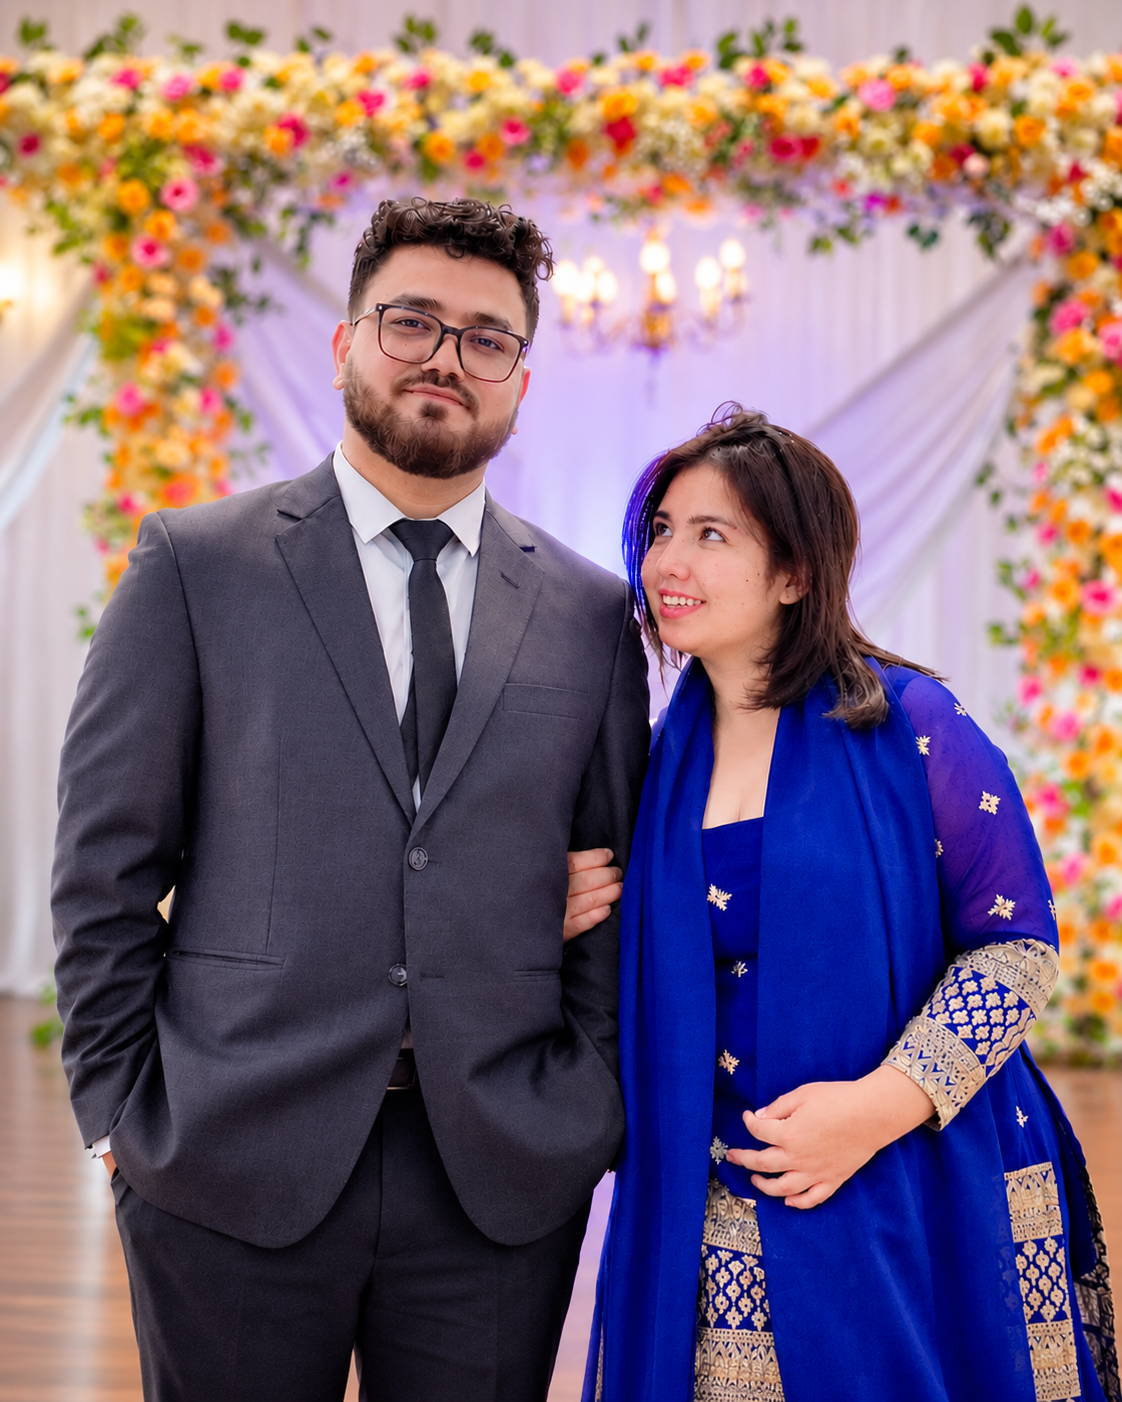
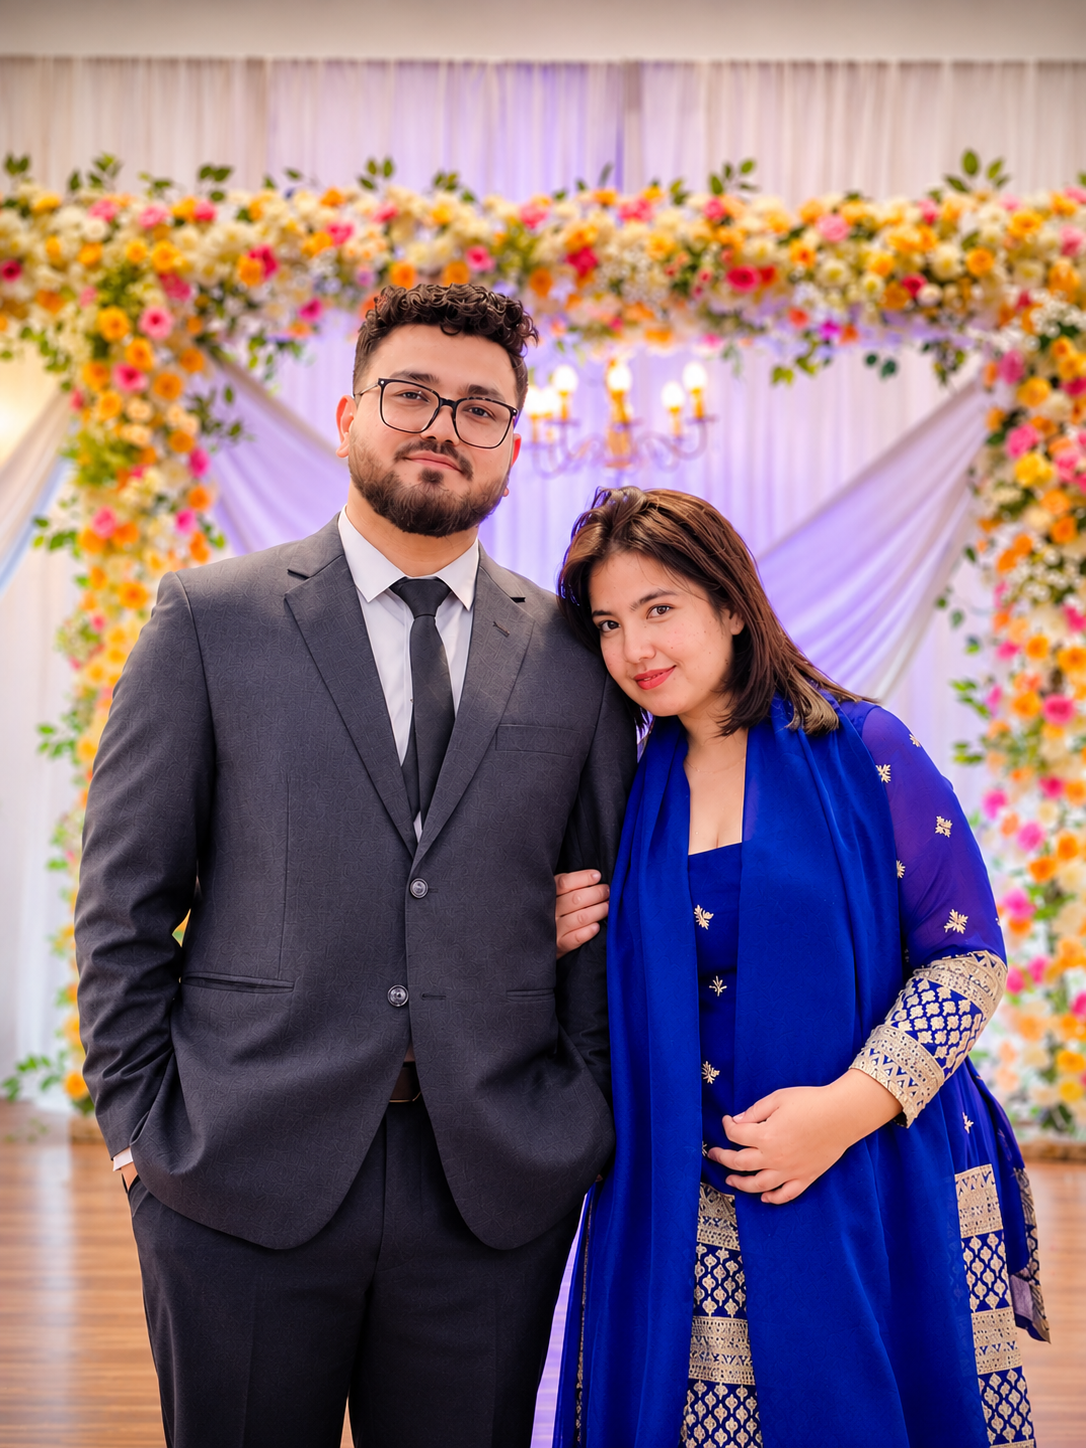
feat: picture update

diff --git a/css/style.css b/css/style.css
@@ -261,7 +261,7 @@ textarea {
   width: max-content;
   max-width: 50%;
   font-family: "Dawning of a New Day", cursive;
-  font-size: calc(var(--env-w) * 0.06 * var(--name-fit, 1));
+  font-size: calc(var(--env-w) * var(--name-size, 0.06) * var(--name-fit, 1));
   line-height: 1.15;
   text-align: left;
   text-wrap: balance;
@@ -270,7 +270,16 @@ textarea {
   transform: translateY(-50%) rotate(-1.5deg);
   /* Ink in the paper: the grain shows through the letters, and the edges stay sharp. */
   mix-blend-mode: multiply;
-  opacity: 0.8;
+  opacity: 0.85;
+  /* The font comes in one thin weight, so a fine outline gives the pen stroke more body. */
+  -webkit-text-stroke: 0.3px currentColor;
+}
+
+@media (max-width: 640px) {
+  .envelope__name {
+    --name-size: 0.07;
+    -webkit-text-stroke-width: 0.35px;
+  }
 }
 .envelope__flap {
   z-index: 4;
